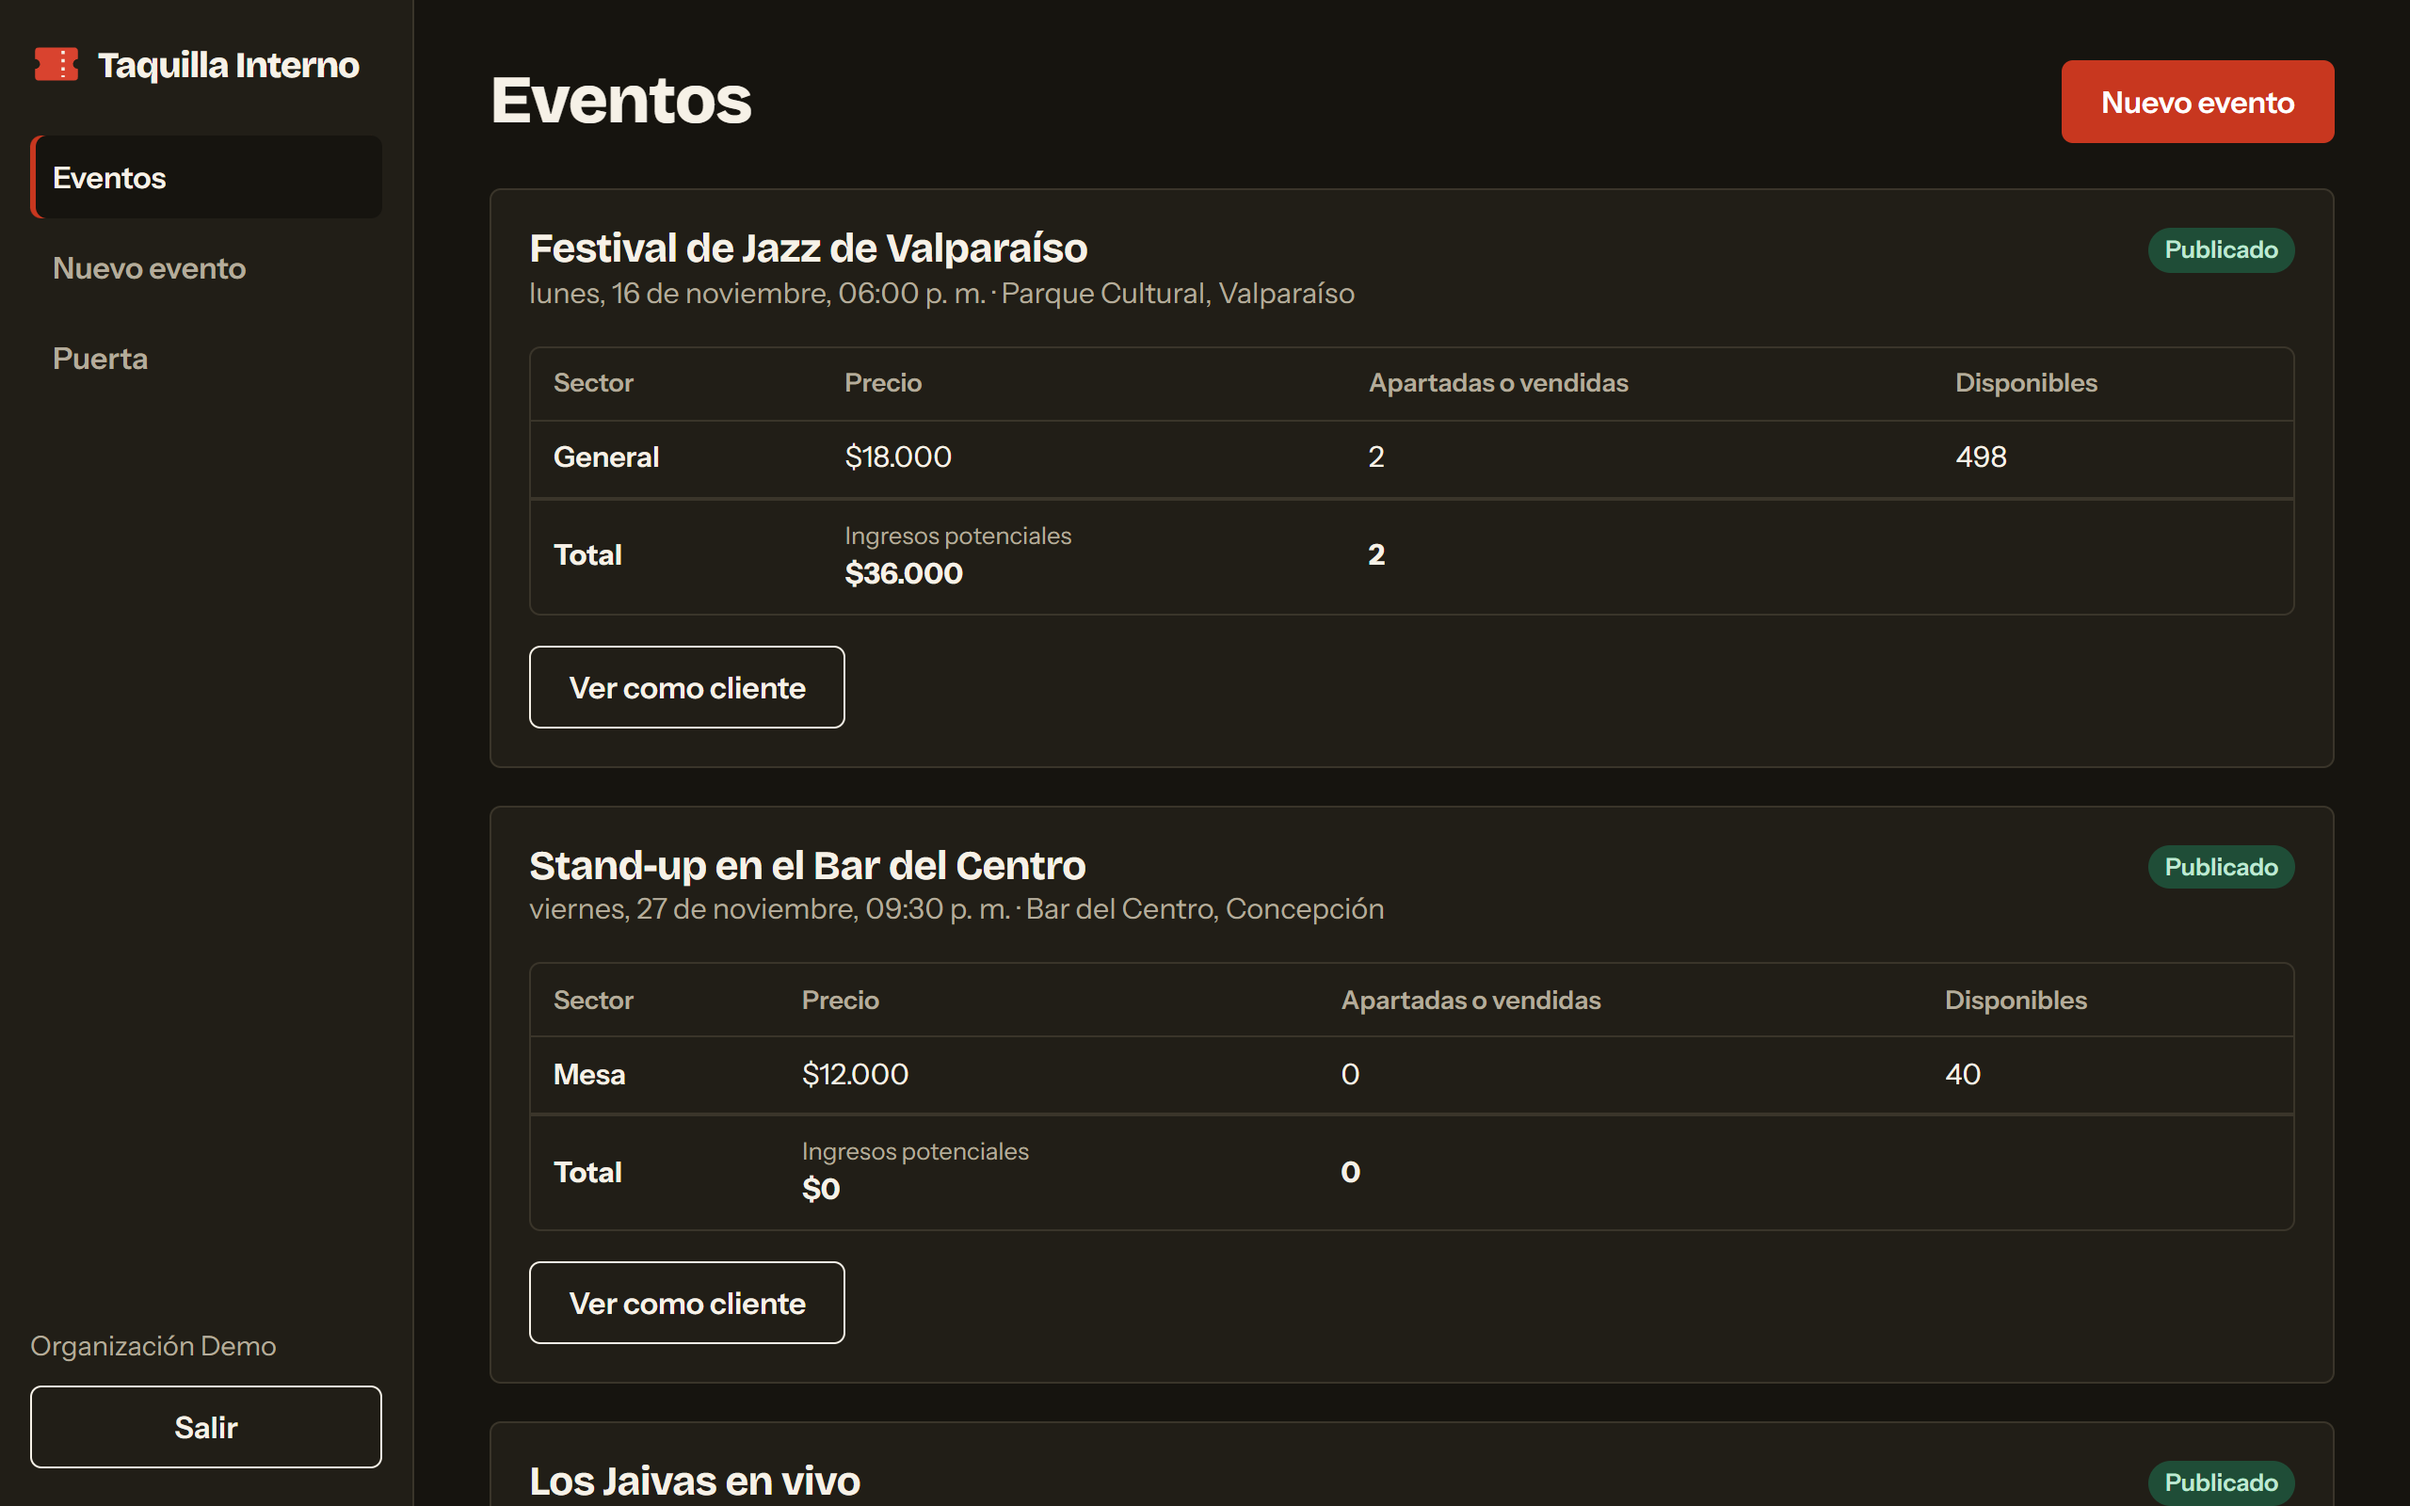
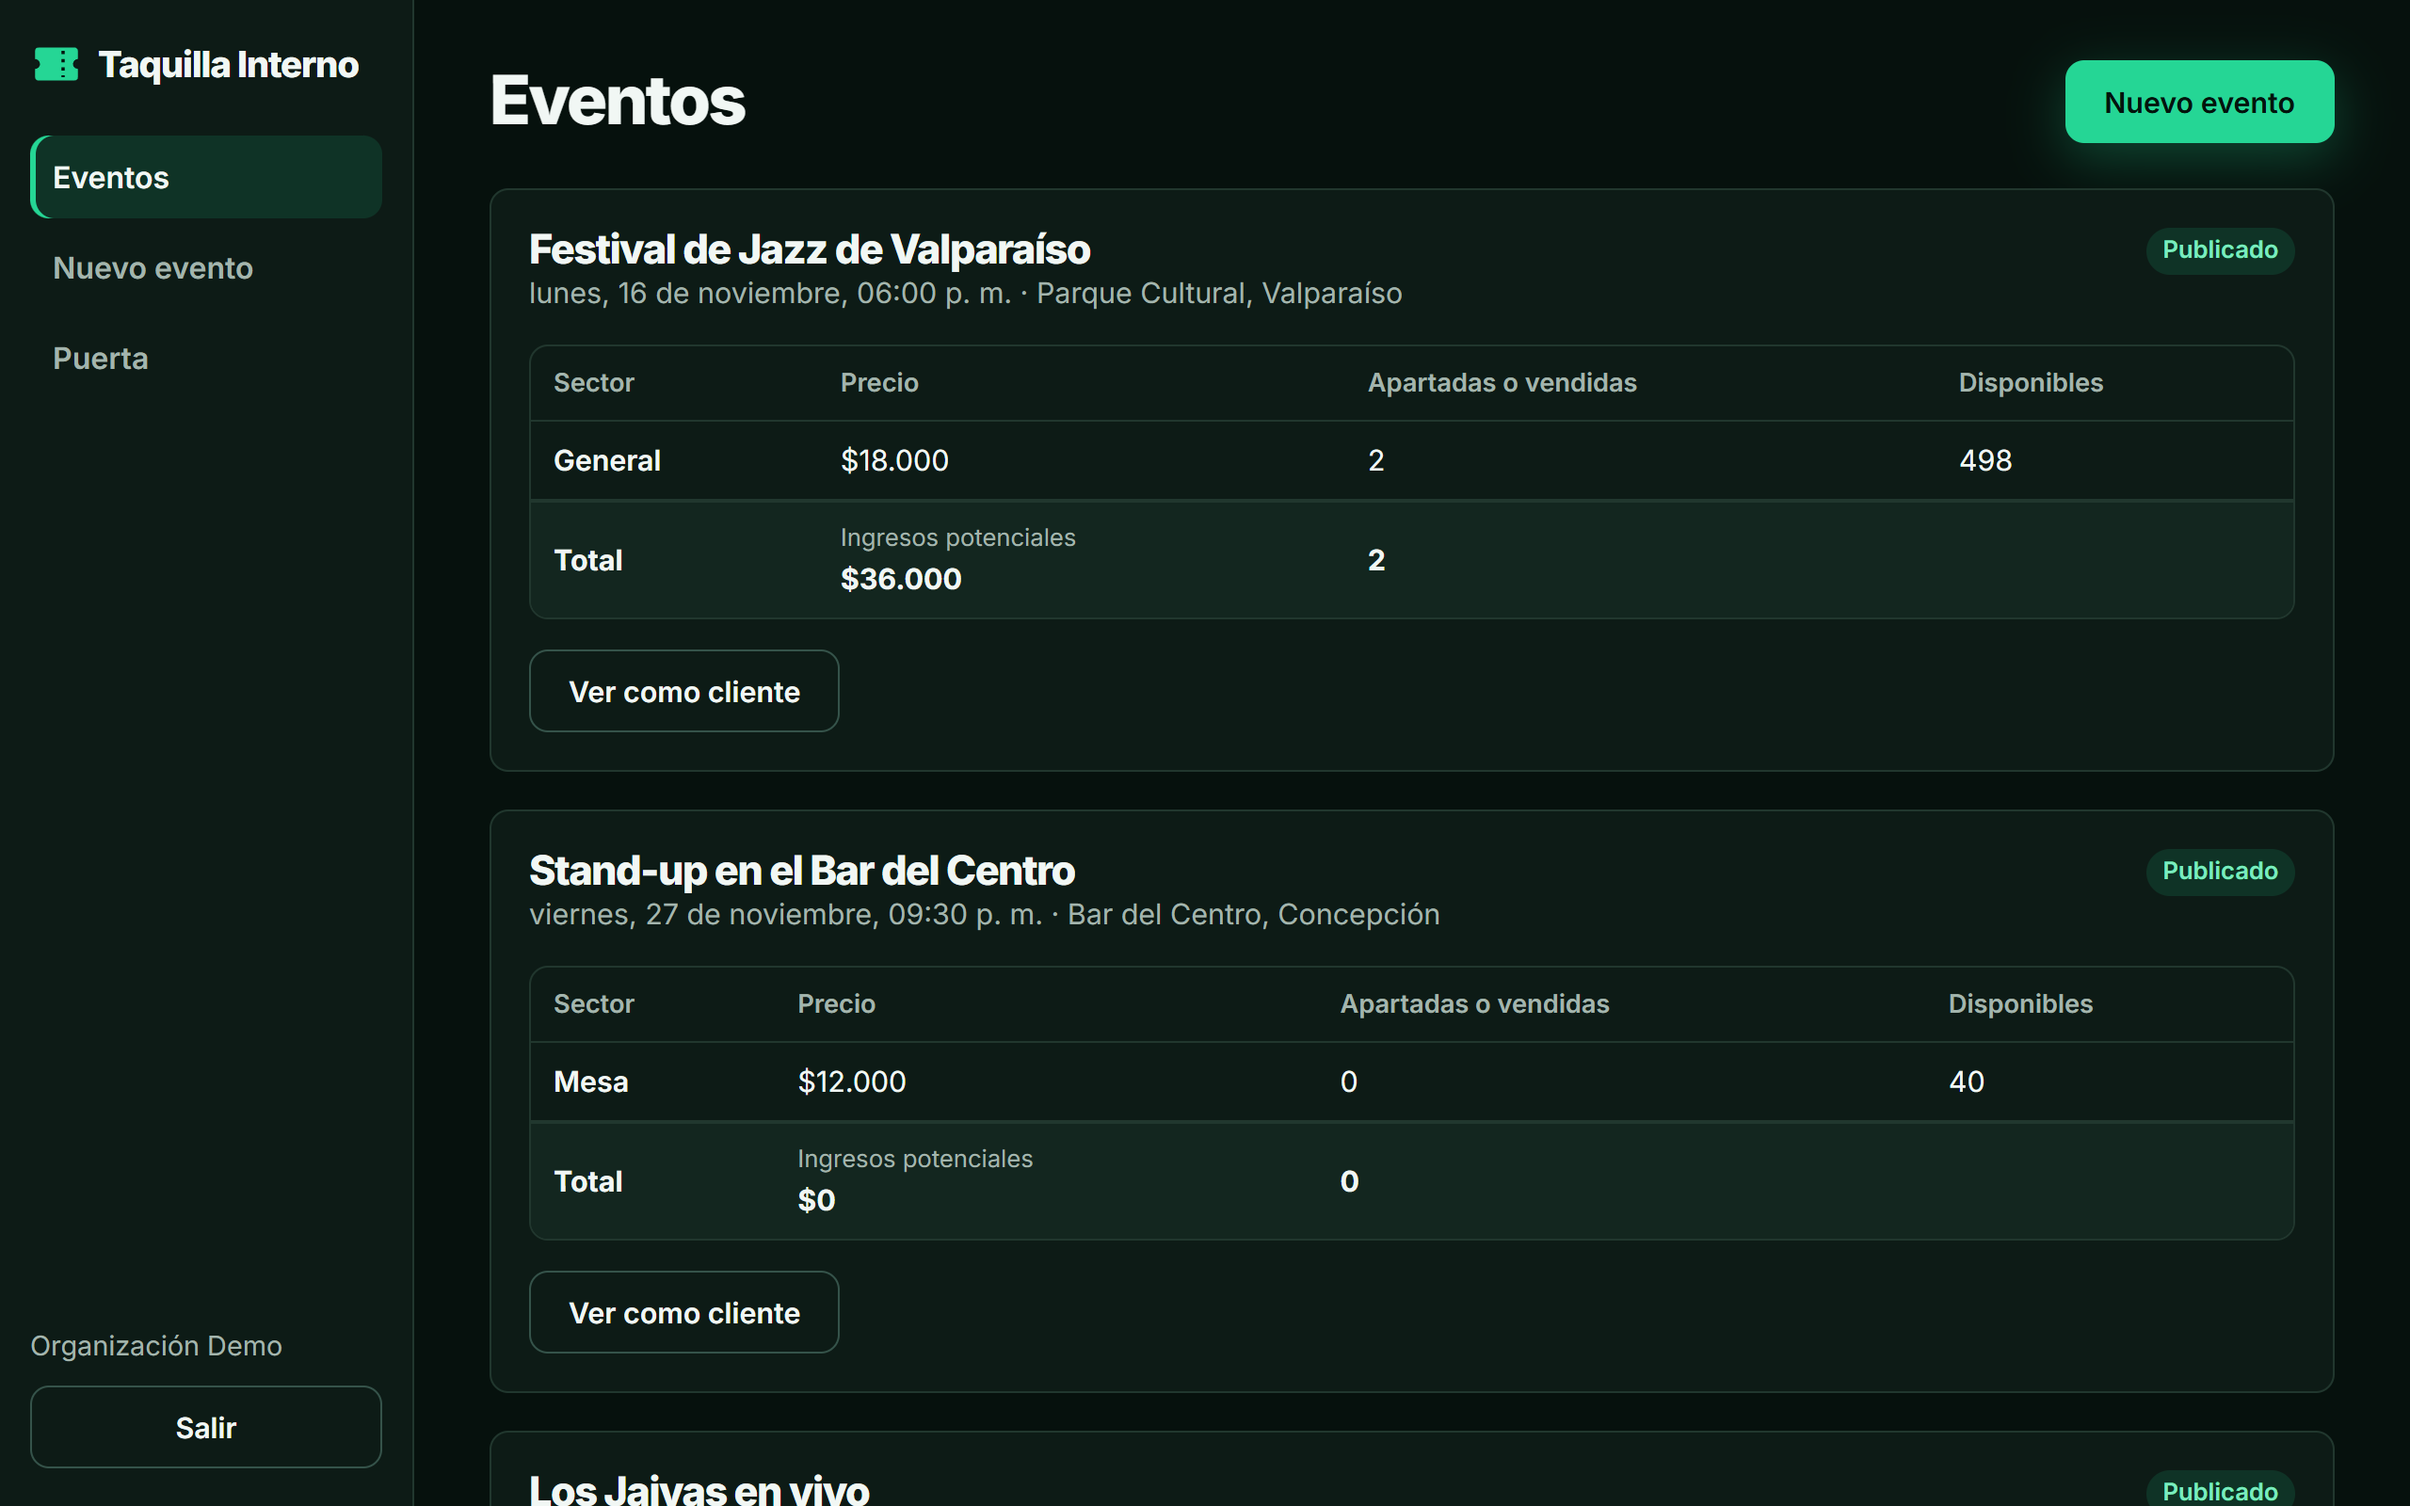
fix: mejora contraste de controles y actualiza capturas al tema oscuro
Los bordes de campos y sectores ahora cumplen el mínimo de 3:1 para controles, y hay
más aire bajo la cabecera. Las capturas del README muestran el nuevo diseño.

diff --git a/frontend/src/clientes/clientes.css b/frontend/src/clientes/clientes.css
@@ -4,7 +4,7 @@
 .detalle {
   display: grid;
   gap: 2rem;
-  padding-top: 1.5rem;
+  padding-top: 2.5rem;
 }
 
 .detalle h1 {
@@ -63,7 +63,7 @@
   gap: 0.75rem;
   min-height: 56px;
   padding: 0.6rem 0.85rem;
-  border: 1px solid var(--borde-fuerte);
+  border: 1px solid var(--borde-control);
   border-radius: var(--radio);
   background: var(--fondo);
   cursor: pointer;
@@ -117,7 +117,7 @@
 .centrada {
   width: min(560px, 100%);
   margin: 0 auto;
-  padding-top: 1.5rem;
+  padding-top: 2.5rem;
 }
 
 .centrada > h1 {

diff --git a/frontend/src/estilos/base.css b/frontend/src/estilos/base.css
@@ -7,6 +7,7 @@
   --superficie-alta: #13261f;
   --borde: #21372e;
   --borde-fuerte: #35534a;
+  --borde-control: #5a7a6e;
   --texto: #f1f7f4;
   --texto-suave: #a3b5ad;
 
@@ -151,7 +152,7 @@ img {
   width: 100%;
   min-height: 44px;
   padding: 0.6rem 0.75rem;
-  border: 1px solid var(--borde-fuerte);
+  border: 1px solid var(--borde-control);
   border-radius: var(--radio);
   background: var(--fondo);
   color: var(--texto);
